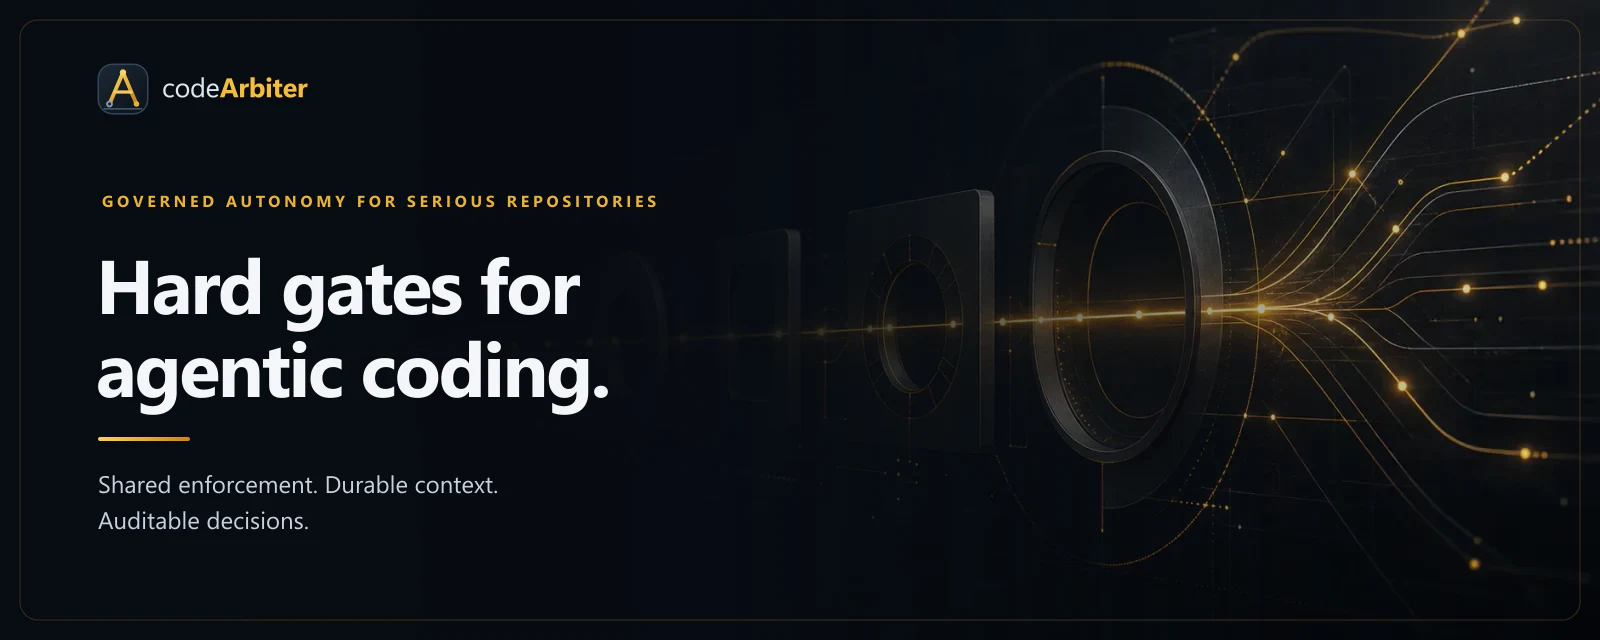
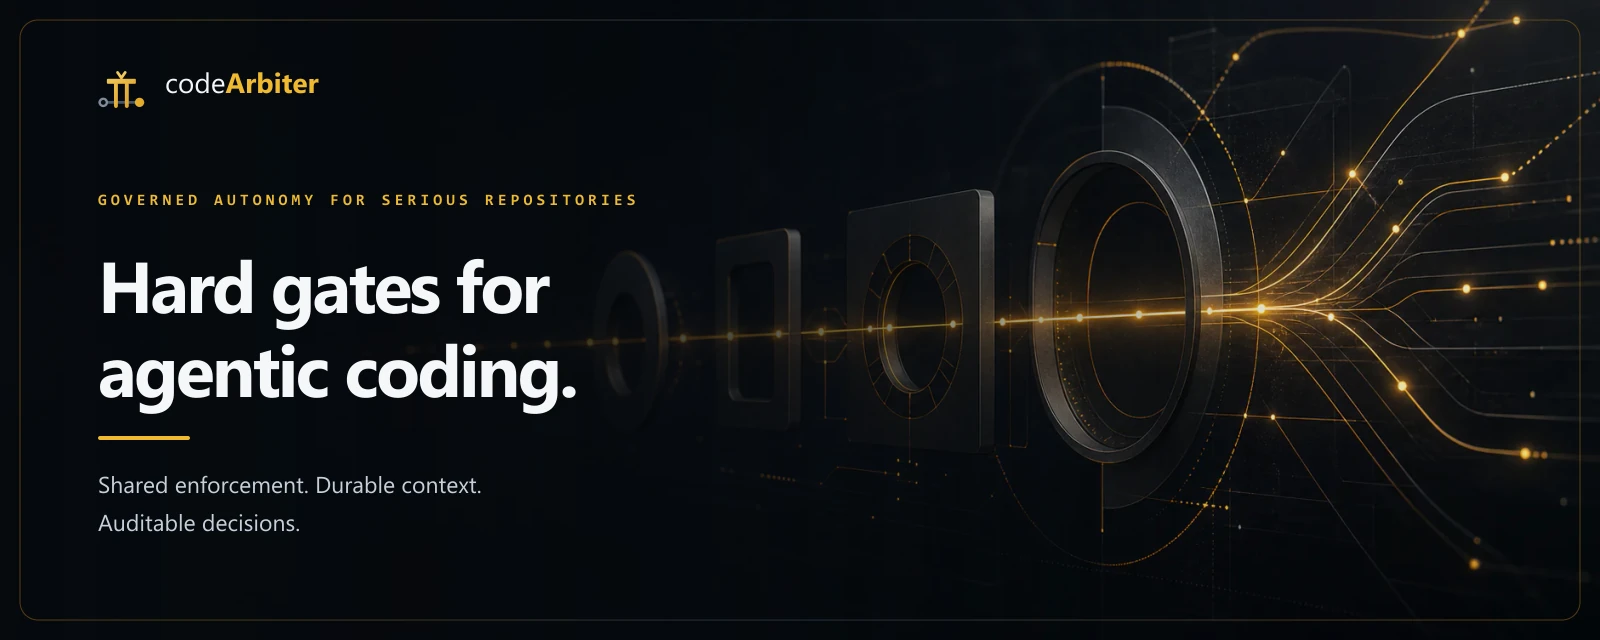
docs: synchronize the repository entry point

diff --git a/site/scripts/generate-readme-hero.ts b/site/scripts/generate-readme-hero.ts
@@ -1,0 +1,57 @@
+import { readFileSync } from "node:fs";
+import { dirname, join, resolve } from "node:path";
+import { fileURLToPath } from "node:url";
+import sharp from "sharp";
+
+const siteRoot = resolve(dirname(fileURLToPath(import.meta.url)), "..");
+const repoRoot = resolve(siteRoot, "..");
+const backgroundPath = join(siteRoot, "src", "assets", "hero-gates.webp");
+const gateMarkPath = join(siteRoot, "src", "assets", "gate-mark.svg");
+const outputPath = join(repoRoot, "docs", "readme-hero.webp");
+const width = 1600;
+const height = 640;
+
+const gateMark = await sharp(readFileSync(gateMarkPath), { density: 240 })
+  .resize({ width: 58 })
+  .png()
+  .toBuffer();
+
+const typography = Buffer.from(`
+<svg xmlns="http://www.w3.org/2000/svg" width="${width}" height="${height}" viewBox="0 0 ${width} ${height}">
+  <defs>
+    <linearGradient id="shade" x1="0" x2="1">
+      <stop offset="0" stop-color="#070b10" stop-opacity=".96"/>
+      <stop offset=".46" stop-color="#070b10" stop-opacity=".72"/>
+      <stop offset=".78" stop-color="#070b10" stop-opacity=".12"/>
+      <stop offset="1" stop-color="#070b10" stop-opacity=".05"/>
+    </linearGradient>
+    <linearGradient id="edge" x1="0" x2="1">
+      <stop stop-color="#9b6811"/>
+      <stop offset=".5" stop-color="#3a4c60"/>
+      <stop offset="1" stop-color="#9b6811"/>
+    </linearGradient>
+  </defs>
+  <rect width="${width}" height="${height}" fill="url(#shade)"/>
+  <rect x="20" y="20" width="1560" height="600" rx="18" fill="none" stroke="url(#edge)" stroke-opacity=".55"/>
+
+  <text x="165" y="93" fill="#f6f7f9" font-family="Segoe UI, Arial, sans-serif" font-size="28" font-weight="500">code<tspan fill="#f0b92f" font-weight="750">Arbiter</tspan></text>
+
+  <text x="98" y="205" fill="#f0b92f" font-family="Consolas, monospace" font-size="16" font-weight="700" letter-spacing="4.1">GOVERNED AUTONOMY FOR SERIOUS REPOSITORIES</text>
+  <text x="98" y="313" fill="#f6f7f9" font-family="Segoe UI, Arial, sans-serif" font-size="72" font-weight="750" letter-spacing="-2.8">Hard gates for</text>
+  <text x="98" y="397" fill="#f6f7f9" font-family="Segoe UI, Arial, sans-serif" font-size="72" font-weight="750" letter-spacing="-2.8">agentic coding.</text>
+  <rect x="98" y="436" width="92" height="4" rx="2" fill="#f0b92f"/>
+  <text x="98" y="493" fill="#c7d0da" font-family="Segoe UI, Arial, sans-serif" font-size="23" font-weight="400">Shared enforcement. Durable context.</text>
+  <text x="98" y="531" fill="#c7d0da" font-family="Segoe UI, Arial, sans-serif" font-size="23" font-weight="400">Auditable decisions.</text>
+</svg>
+`);
+
+await sharp(backgroundPath)
+  .resize(width, height, { fit: "cover", position: "centre" })
+  .composite([
+    { input: typography, left: 0, top: 0 },
+    { input: gateMark, left: 96, top: 66 },
+  ])
+  .webp({ quality: 90, effort: 6 })
+  .toFile(outputPath);
+
+console.log(`generated README hero -> ${outputPath}`);

diff --git a/site/test/content/readme-professional.test.ts b/site/test/content/readme-professional.test.ts
@@ -4,15 +4,24 @@ import { describe, expect, it } from "vitest";
 
 const repoRoot = resolve(process.cwd(), "..");
 const readme = readFileSync(join(repoRoot, "README.md"), "utf8");
+const packageJson = JSON.parse(readFileSync(join(process.cwd(), "package.json"), "utf8"));
 
 describe("professional repository README", () => {
   it("leads with the rendered product artwork instead of the legacy SVG banner", () => {
     const hero = join(repoRoot, "docs", "readme-hero.webp");
+    const generator = join(process.cwd(), "scripts", "generate-readme-hero.ts");
 
     expect(readme).toContain('src="docs/readme-hero.webp"');
     expect(readme).not.toContain('src="docs/banner.svg"');
     expect(existsSync(hero)).toBe(true);
     expect(statSync(hero).size).toBeGreaterThan(50_000);
+    expect(existsSync(generator)).toBe(true);
+    const generatorSource = readFileSync(generator, "utf8");
+    expect(generatorSource).toContain("hero-gates.webp");
+    expect(generatorSource).toContain("gate-mark.svg");
+    expect(packageJson.scripts["gen:readme-hero"]).toBe(
+      "tsx scripts/generate-readme-hero.ts",
+    );
   });
 
   it("routes a newcomer into the same novice-to-power-user journey as the site", () => {
@@ -46,5 +55,11 @@ describe("professional repository README", () => {
     expect(readme).toContain('"ca-pi-v*"');
     expect(readme).toContain("H-18");
     expect(readme).not.toContain("bypass of one gate or hard rule");
+  });
+
+  it("separates the current Codex adapter from the dated live-install evidence", () => {
+    expect(readme).toContain("currently ships `ca-codex 0.3.5`");
+    expect(readme).toContain("dated end-to-end public-install record");
+    expect(readme).toContain("`ca-codex 0.2.4` from release `v2.8.13`");
   });
 });

diff --git a/README.md b/README.md
@@ -119,8 +119,10 @@ Approve the normal plugin trust prompt, open the target repository, and continue
 
 ### Codex CLI
 
-The public GitHub-slug flow is **available now**. It was verified against release `v2.8.13` with
-`ca-codex 0.2.4`:
+The public GitHub-slug flow is **available now**. The repository currently ships `ca-codex 0.3.5`;
+the dated end-to-end public-install record discovered `ca-codex 0.2.4` from release `v2.8.13`.
+Current packaging and shared-core parity are continuously verified, while that dated live-install
+record stays labeled rather than being silently promoted to evidence for a newer adapter:
 
 ```text
 codex plugin marketplace add arbiterForge/codeArbiter
